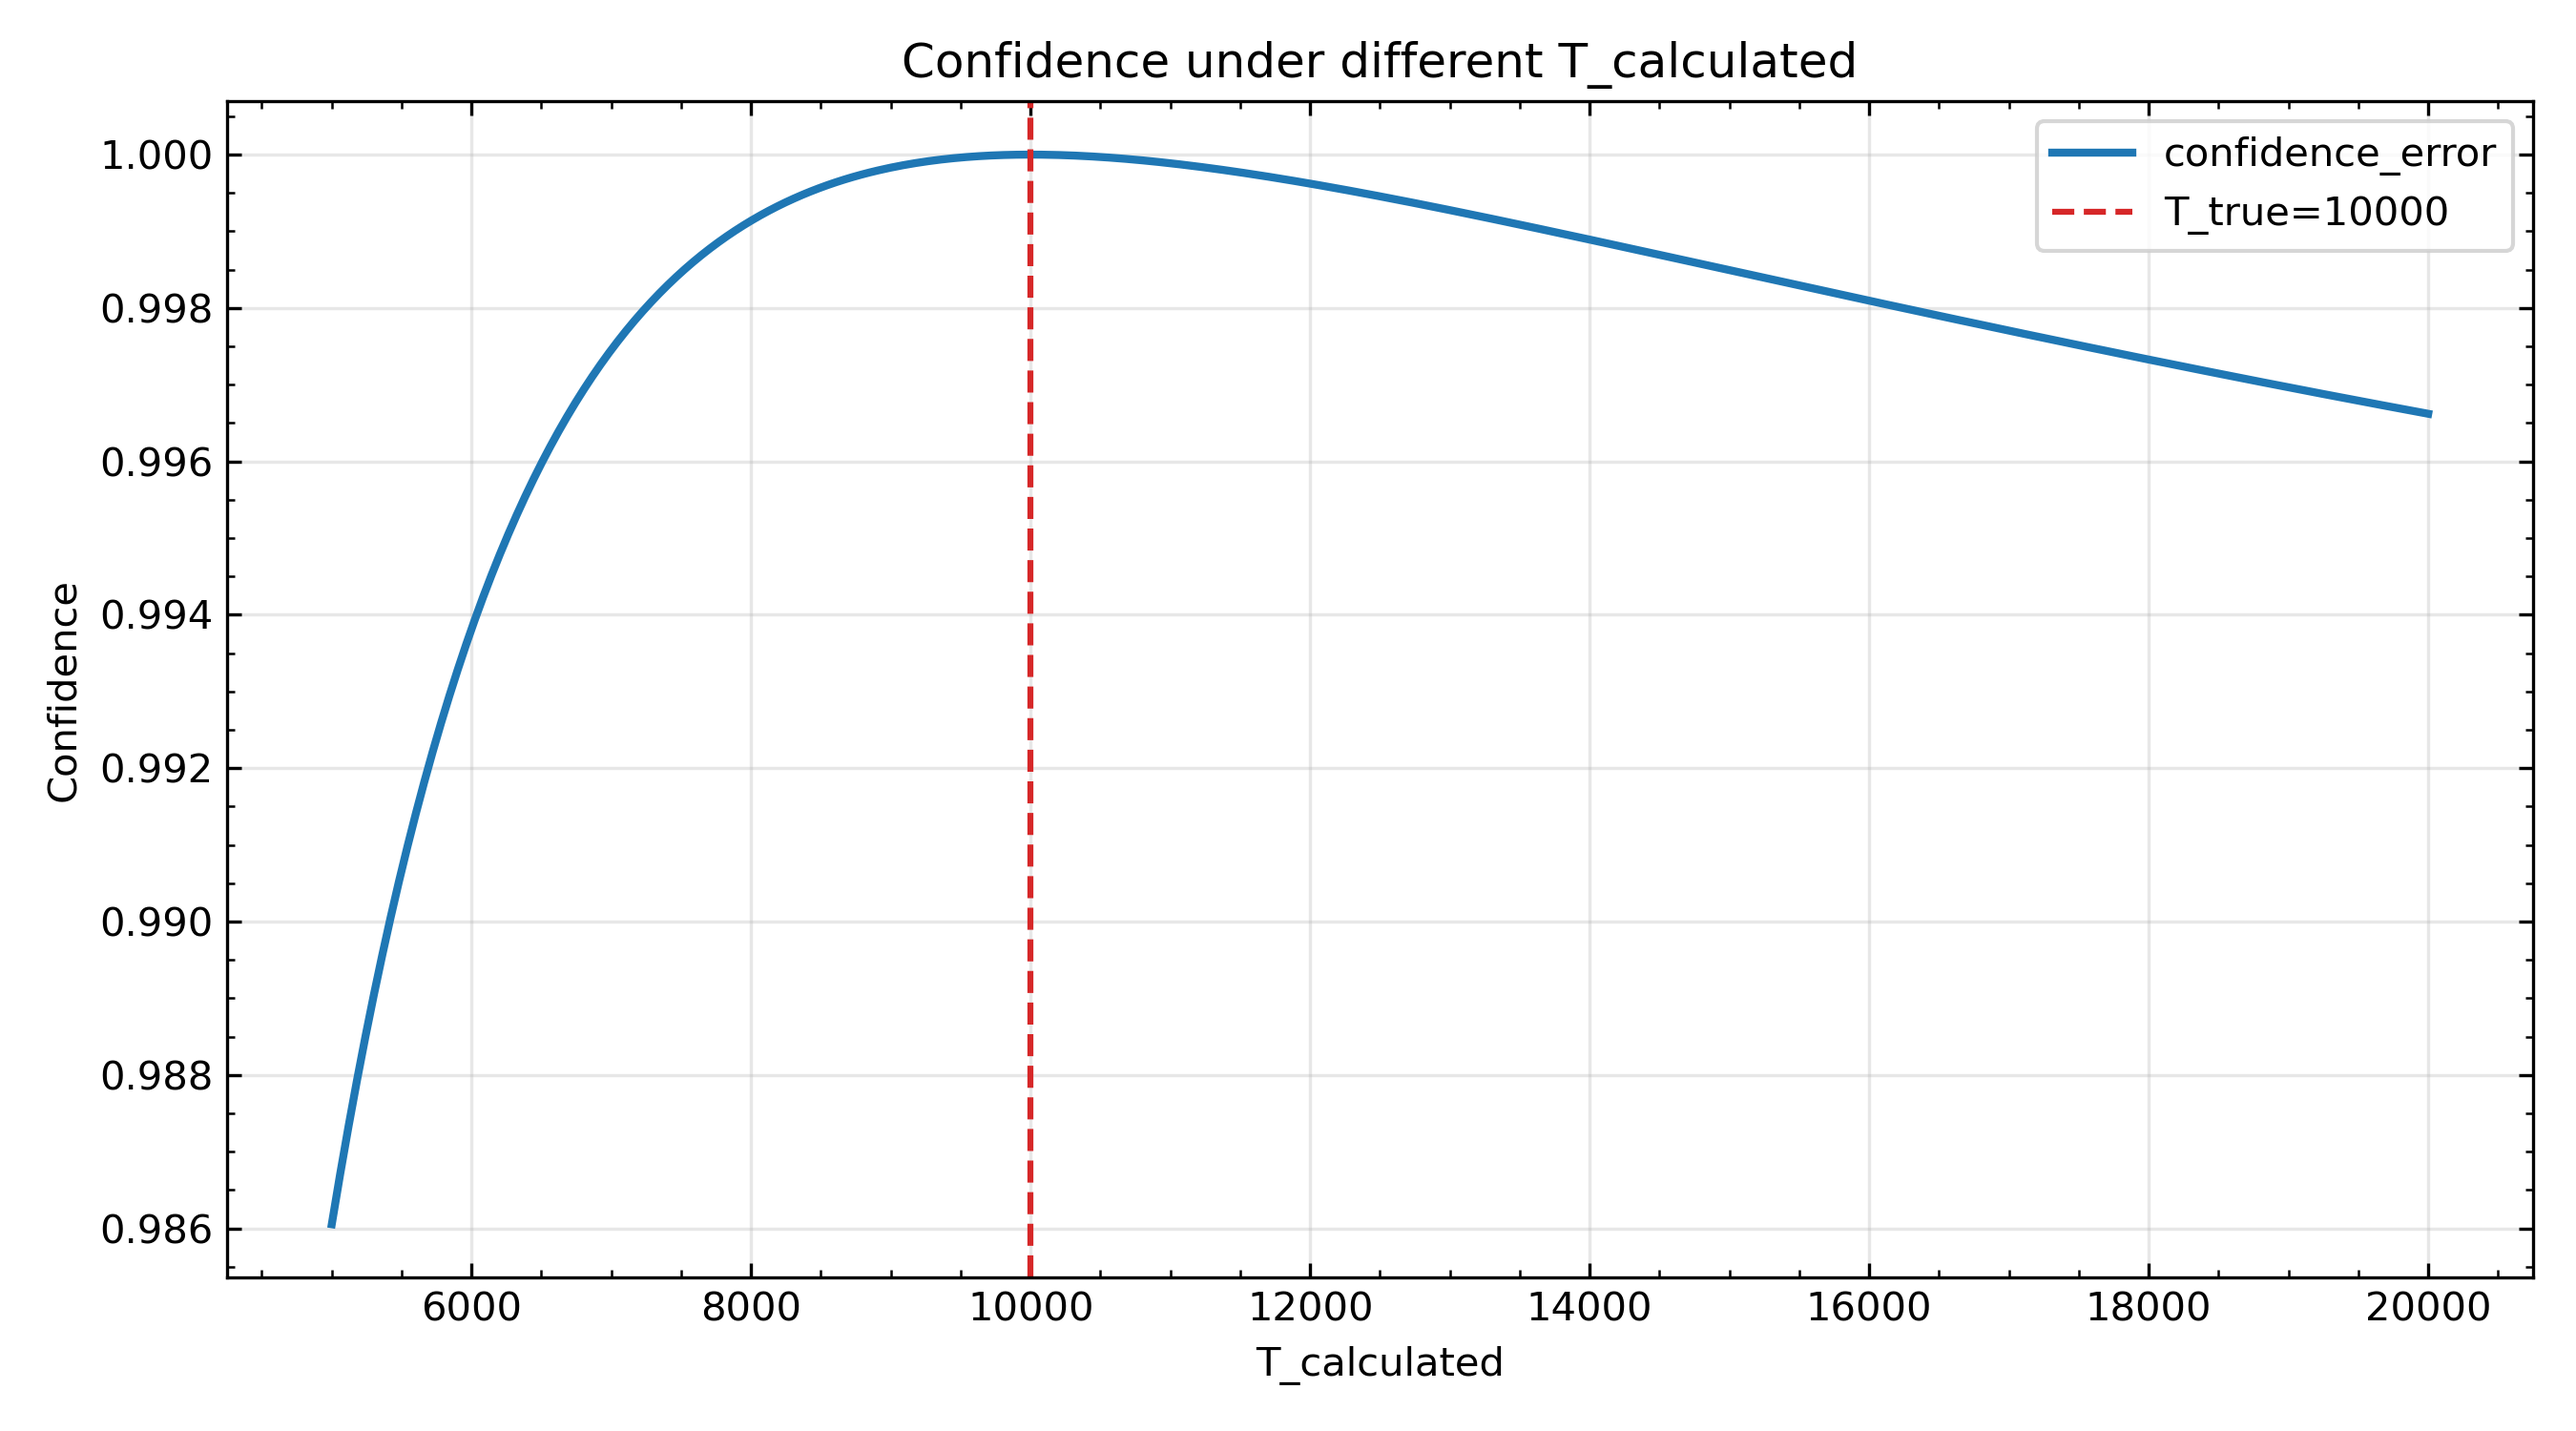
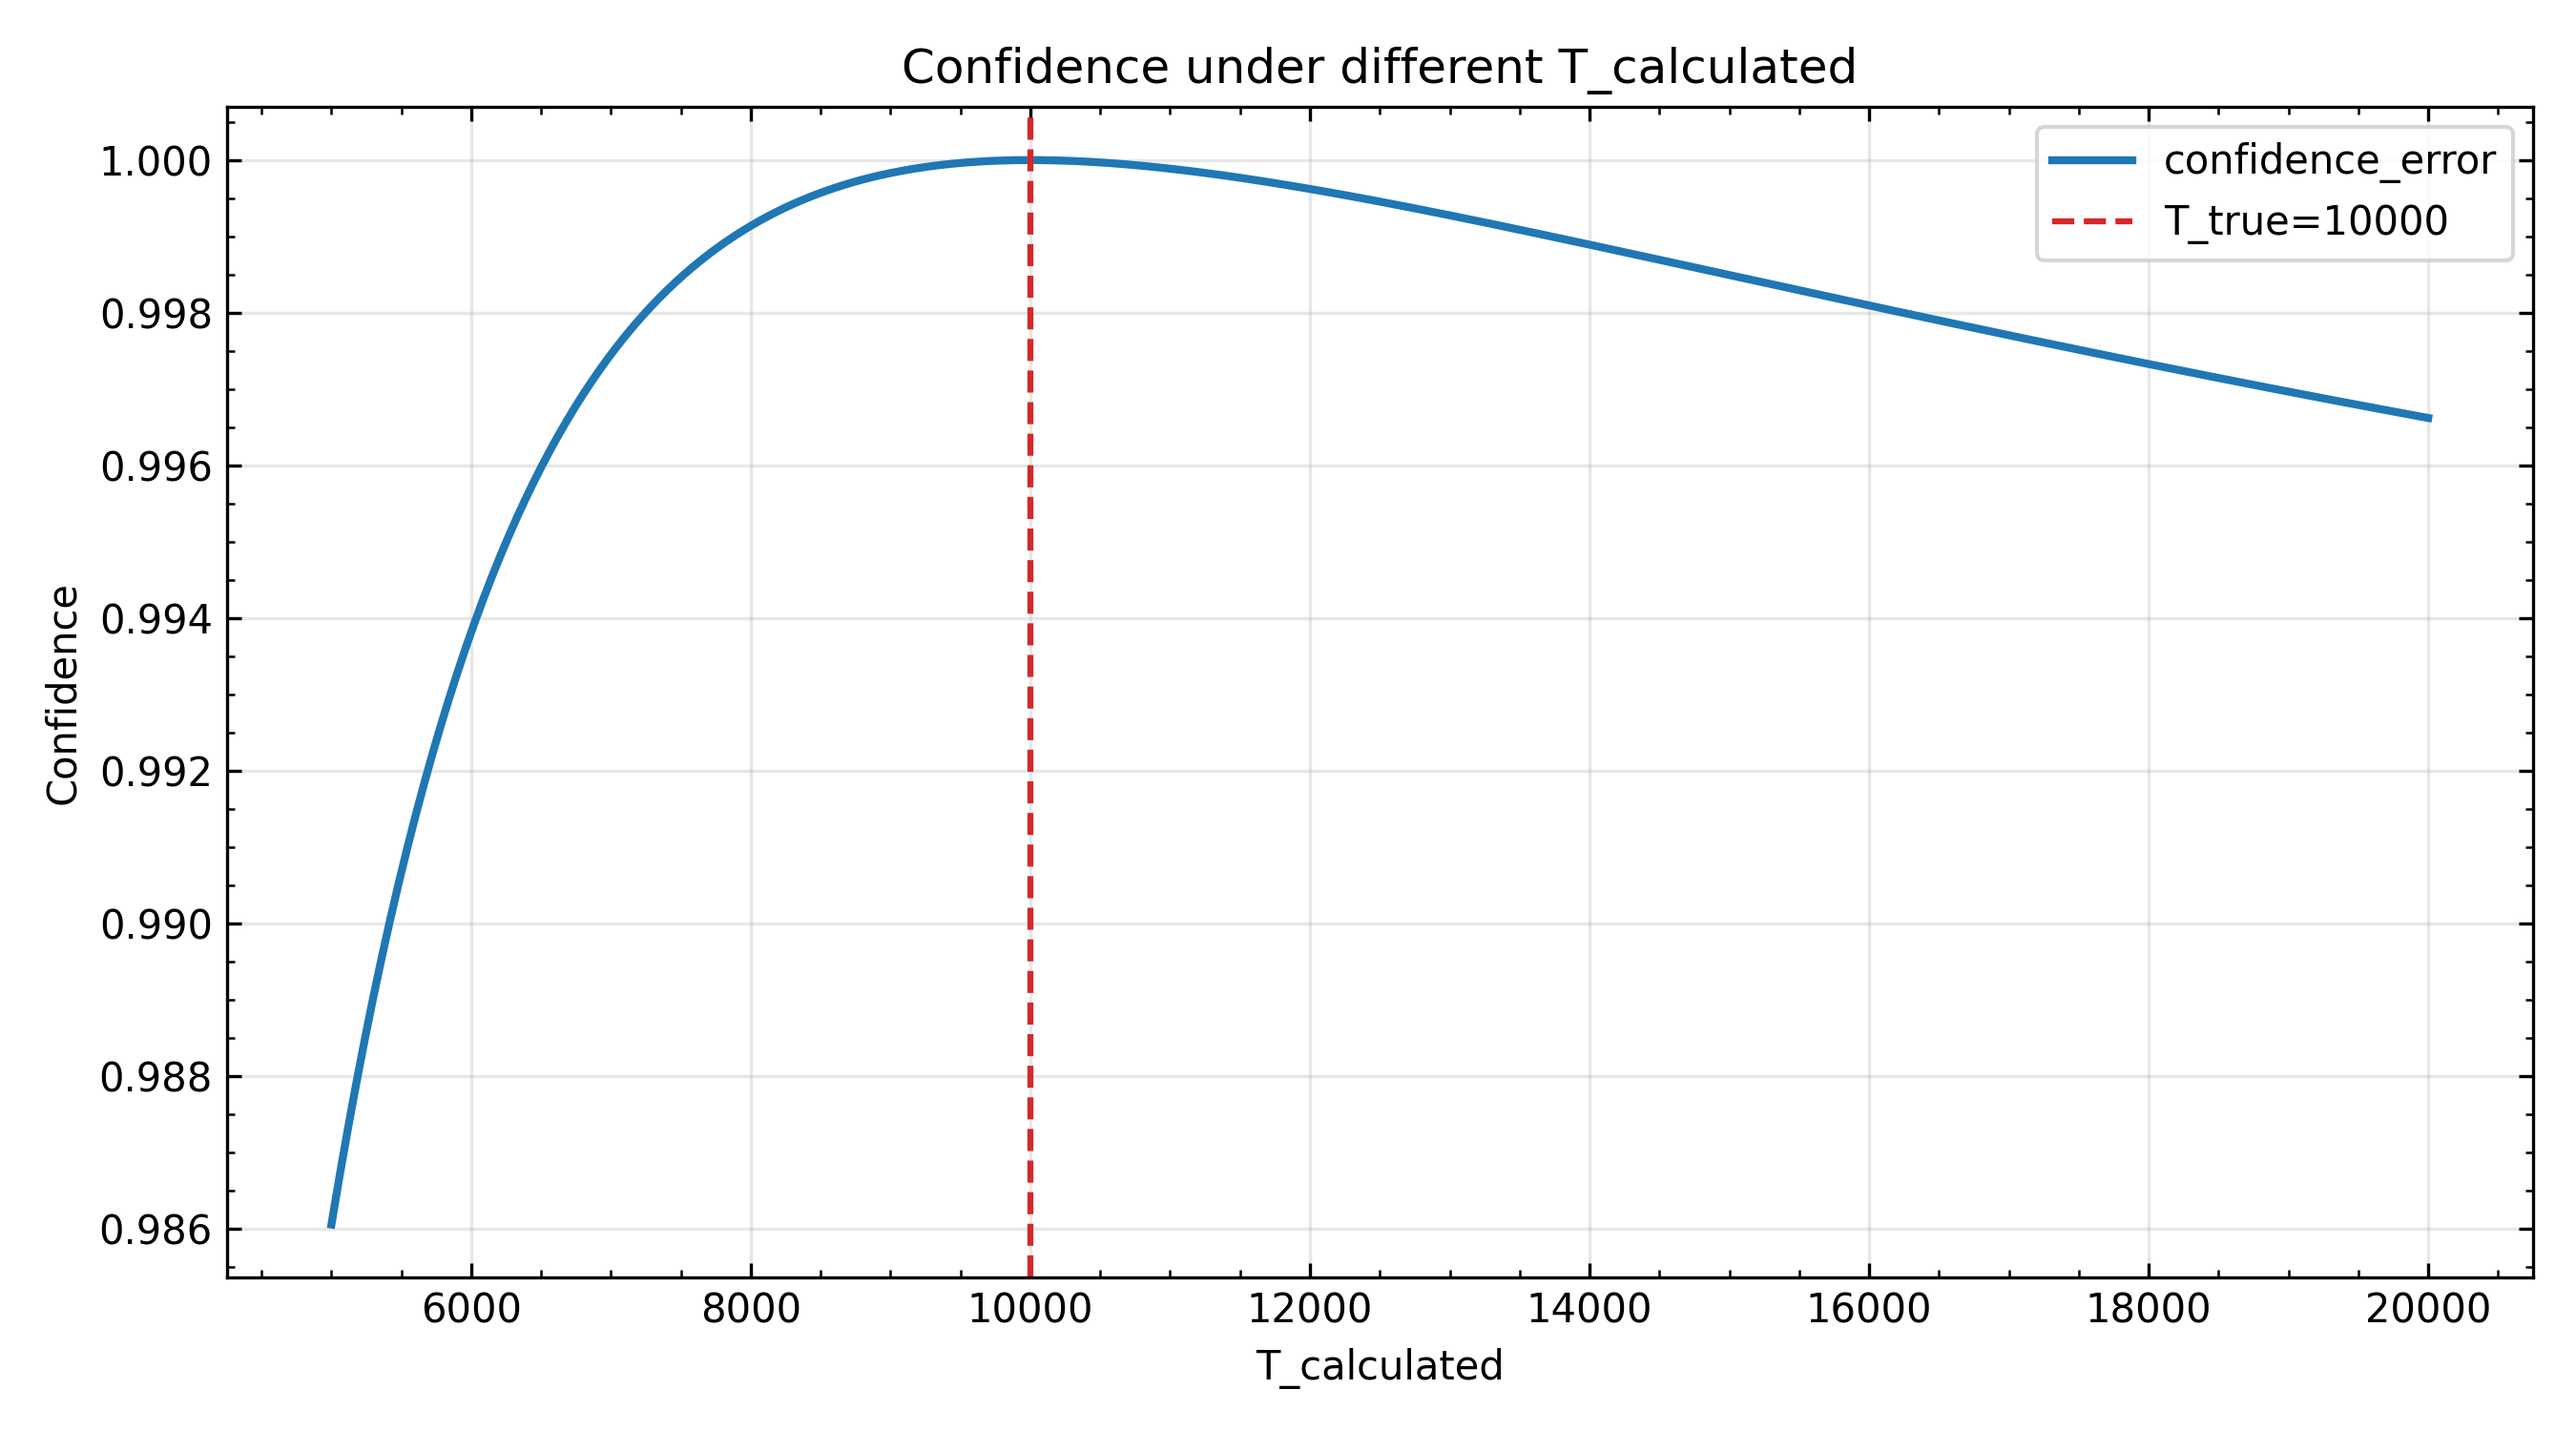
完成图象绘制的调整

diff --git a/error_evaluation.py b/error_evaluation.py
@@ -98,19 +98,31 @@ def plot_confidence_error_curve(T_true=10000, t_min=5000, t_max=20000, num=500, 
     for i, T_calculated in enumerate(T_values):
         confidence_mean[i] = error_evaluation(T_calculated, T_true)
 
-    plt.figure(figsize=(9, 5))
-    plt.plot(T_values, confidence_mean, color='tab:blue', linewidth=2, label='confidence_error')
-    plt.axvline(T_true, color='tab:red', linestyle='--', linewidth=1.5, label=f'T_true={T_true}')
-    plt.xlabel('T_calculated')
-    plt.ylabel('Confidence')
-    plt.title('Confidence under different T_calculated')
+    plt.figure(figsize=(7, 5))
+    plt.plot(T_values, confidence_mean, color='tab:blue', linewidth=2.2, label='Confidence')
+
+    for spine in plt.gca().spines.values():
+        spine.set_linewidth(1.8)
+    for label in plt.gca().get_xticklabels():
+        label.set_fontweight("semibold")
+    for label in plt.gca().get_yticklabels():
+        label.set_fontweight("semibold")
+
+    plt.axvline(T_true, color='tab:red', linestyle='--', linewidth=2, alpha=0.8, label=f'T-Ref={T_true}')
+
+    plt.xlabel('T', fontsize=15, fontweight="semibold")
+    plt.ylabel('Confidence', fontsize=15, fontweight="semibold")
+    plt.title('Confidence-T', fontsize=15, fontweight="semibold")
+
     plt.grid(alpha=0.3)
-    plt.minorticks_on()
-    plt.tick_params(axis='both', which='major', direction='in', top=True, right=True)
-    plt.tick_params(axis='both', which='minor', direction='in', top=True, right=True)
-    plt.legend()
-    plt.tight_layout()
-    plt.savefig(save_path, dpi=300)    
+    
+
+    plt.tick_params(axis='both', which='major', direction='in', top=True, right=True,width=2.0, length=6, labelsize=12)
+    plt.tick_params(axis='both', which='minor', direction='in', top=True, right=True,width=2, length=6,labelsize=12)
+
+
+    plt.legend(loc="upper right", prop={"weight": "semibold", "size": 12}, frameon=False)
+    plt.tight_layout() 
     plt.show()
 
 def plot_p_T_curve(T_true=10000, t_min=5000, t_max=20000, num=500):
@@ -118,14 +130,25 @@ def plot_p_T_curve(T_true=10000, t_min=5000, t_max=20000, num=500):
     p_T_values = np.zeros((len(wl), num))
     for i, T in enumerate(T_values):
         p_T_values[:, i] = rel_intensity(wl, A, E, g, T)
-    plt.figure(figsize=(9, 5))
+    plt.figure(figsize=(7, 5))
     for i in range(len(wl)):
-        plt.plot(T_values, p_T_values[i, :], label=f'wl={wl[i]:.1f}nm')
-    plt.axvline(T_true, color='tab:red', linestyle='--', linewidth=1.5, label=f'T_true={T_true}')
-    plt.xlabel('T')
-    plt.ylabel('p')
-    plt.title('CeII')
-    plt.legend()
+        plt.plot(T_values, p_T_values[i, :], label=f'wl={wl[i]:.1f}nm', linewidth=2.2)
+    plt.axvline(T_true, color='tab:red', linestyle='--', linewidth=2,alpha=0.8, label=f'T_true={T_true}')
+
+    plt.tick_params(axis='both', which='major', direction='in', top=True, right=True,length=6, width=2.0, labelsize=12)
+
+    for spine in plt.gca().spines.values():
+        spine.set_linewidth(1.8)
+    for label in plt.gca().get_xticklabels():
+        label.set_fontweight("semibold")
+    for label in plt.gca().get_yticklabels():
+        label.set_fontweight("semibold")
+
+    plt.xlabel('T',fontsize=15, fontweight="semibold")
+    plt.ylabel('p', fontsize=15, fontweight="semibold")
+    plt.title('P-T Curve', fontsize=15, fontweight="semibold")
+
+    # plt.legend(prop={"weight": "semibold", "size": 12},frameon=False)
     plt.tight_layout()
     plt.show()
 
@@ -319,13 +342,45 @@ def plot_dU_sum_dT_vs_T_from_df(df_input, t_min=500, t_max=20000, num=2000, save
     plt.show()
 
 
+def plot_two_exponentials(x_min=0, x_max=5, num=500, save_path='exp_compare.png'):
+    """按当前脚本风格绘制 exp(-1.5x) 与 exp(-2x) 的对比曲线。"""
+    x = np.linspace(x_min, x_max, num)
+    y1 = np.exp(-1.5 * x)
+    y2 = np.exp(-2.0 * x)
+
+    plt.figure(figsize=(7, 5))
+    plt.plot(x, y1, color='tab:blue', linewidth=2.2, label='exp(-1.5x)')
+    plt.plot(x, y2, color='tab:red', linewidth=2.2, linestyle='--', label='exp(-2x)')
+
+    for spine in plt.gca().spines.values():
+        spine.set_linewidth(1.8)
+    for label in plt.gca().get_xticklabels():
+        label.set_fontweight("semibold")
+    for label in plt.gca().get_yticklabels():
+        label.set_fontweight("semibold")
+
+    plt.xlabel('X', fontsize=15, fontweight="semibold")
+    plt.ylabel('Y', fontsize=15, fontweight="semibold")
+    plt.title('Exponential Curves', fontsize=15, fontweight="semibold")
+
+    plt.tick_params(axis='both', which='major', direction='in', top=True, right=True, width=2.0, length=6, labelsize=12)
+    plt.tick_params(axis='both', which='minor', direction='in', top=True, right=True, width=2.0, length=6, labelsize=12)
+    plt.grid(alpha=0.3)
+
+    plt.legend(loc="upper right", prop={"weight": "semibold", "size": 12}, frameon=False)
+    plt.tight_layout()
+    plt.savefig(save_path, dpi=300)
+    plt.show()
+
+
 # 测试单个点的导数计算
 # print(E[1])
 # print(derivative_P_T(1, 10000))
 
 # plot_derivative_vs_T(wl, A, E, g, 0, T_true=10000, t_min=1000, t_max=20000, num=2000, mode='all')
-# plot_confidence_error_curve(T_true=10000, t_min=5000, t_max=20000, num=500)
-# plot_p_T_curve(T_true=10000, t_min=5000, t_max=20000, num=500)
+plot_confidence_error_curve(T_true=10000, t_min=5000, t_max=20000, num=500)
+plot_p_T_curve(T_true=10000, t_min=5000, t_max=20000, num=500)
+plot_two_exponentials(x_min=0, x_max=5, num=500)
 
 
 
